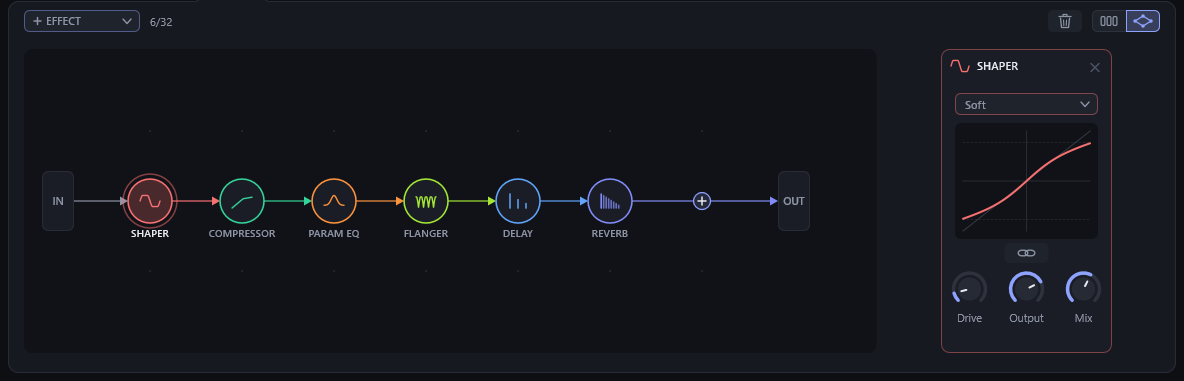
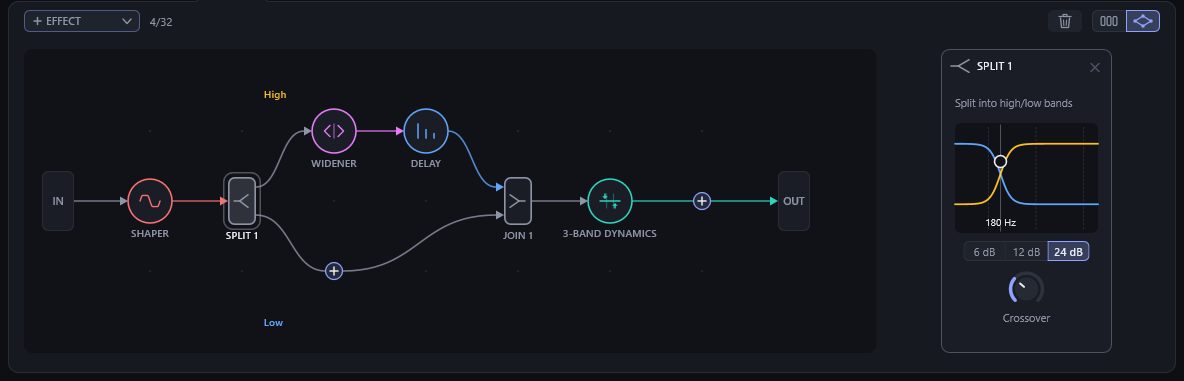
Add the BA Neon Pluck preset, the README's graph screenshot
A mono FM saw pluck through a resonant low-pass over a sine sub, a two-bar LFO
turning its FM and grit; its effects as a graph, split at 180 Hz with the high
band widened and echoed and the low band left tight, then a 3-band dynamics set
as OTT; Timbre, Filter, Grit and Space macros. The UI test renders it, and
release.ps1 copies its effects' panel over docs/fx-graph.png.

diff --git a/tools/uishot.cpp b/tools/uishot.cpp
@@ -1587,12 +1587,15 @@ void renderExample(const std::filesystem::path &dir, Renderer &renderer, const s
     click(view, kFxTab);
     view.mouseMove({600.0f, 328.0f}, {});
     shots = shots && renderer.save(view, dir / (prefix + "-fx.png"));
-    // Its effects' panel alone, as a chain and then as a graph (the README's, see release.ps1).
+    // Its effects' panel alone, as a chain and then as a graph, or as a graph only when it comes as one (the
+    // README's, see release.ps1).
     const Rect panel{detail::kFxPanel.x - 8.0f, detail::kFxPanel.y - 1.0f, detail::kFxPanel.w + 16.0f,
                      detail::kFxPanel.h + 9.0f}; // not the tabs above it
-    shots = shots && renderer.save(view, dir / (prefix + "-fx-chain-panel.png"), &panel);
-    const Rect graphSwitch = detail::fxModeButton(1);
-    click(view, {graphSwitch.x + graphSwitch.w * 0.5f, graphSwitch.y + graphSwitch.h * 0.5f});
+    if (model.value(paramIndex(GlobalParam::FxGraph)) < 0.5) {
+        shots = shots && renderer.save(view, dir / (prefix + "-fx-chain-panel.png"), &panel);
+        const Rect graphSwitch = detail::fxModeButton(1);
+        click(view, {graphSwitch.x + graphSwitch.w * 0.5f, graphSwitch.y + graphSwitch.h * 0.5f});
+    }
     view.mouseMove({600.0f, 600.0f}, {});
     shots = shots && model.value(paramIndex(GlobalParam::FxGraph)) == 1.0 &&
             renderer.save(view, dir / (prefix + "-fx-graph-panel.png"), &panel);
@@ -6230,6 +6233,7 @@ void run(const std::filesystem::path &dir, float scale) {
     click(view, kSourcesToggle);
     runMore(dir, renderer);
     renderExample(dir, renderer, "PD Crystal Motion", "24-example", 6);
+    renderExample(dir, renderer, "BA Neon Pluck", "24b-split-example", 4); // its effects as a graph, split low/high
     renderExample(dir, renderer, "BA Reese Bass", "25-reese", 4);
     renderExample(dir, renderer, "LD Folded Lead", "31-folded-lead", 2);
     renderExample(dir, renderer, "BA Fuzz Bass", "32-fuzz-bass", 2);

diff --git a/docs/features.md b/docs/features.md
@@ -1143,9 +1143,12 @@ the modulation panel or the keyboard strip makes it shorter (the plugin asks the
   (three pairs at inharmonic ratios, one of them modulated by a fixed 137 Hz operator, so each key grinds
   differently, the modulators dying before their carriers and velocity driving every index); LD Feedback Lead (a
   mono lead whose oscillator is a self-modulating operator, the mod wheel opening its feedback and index from flute
-  to buzzing reed, a mod envelope's bite on each note and a vibrato that a second envelope, as its aux, fades in); and
+  to buzzing reed, a mod envelope's bite on each note and a vibrato that a second envelope, as its aux, fades in);
   PD Six-Op Cascade (all six operators in one chain, F down to A, four slow LFOs breathing its links at rates that
-  never line up, and an Index macro deepening them all). A folder made
+  never line up, and an Index macro deepening them all); and BA Neon Pluck (a mono saw plucked by FM through a
+  resonant low-pass over a sine sub, a two-bar LFO turning its FM and grit, its effects as a graph: a split at
+  180 Hz whose high band is widened and echoed while the low band stays tight, then a 3-band dynamics set as OTT;
+  its Timbre, Filter, Grit and Space macros). A folder made
   before an example came gets it the next time the library is used; `%APPDATA%\FMVibe\settings.txt` counts the examples
   given, so deleted ones stay gone. The plugin carries the factory presets built in and writes them out as they are:
   they hold only the params that differ from Init, so their files are small, and load like any other.

diff --git a/AGENTS.md b/AGENTS.md
@@ -528,9 +528,9 @@ browser demo on Linux, with the Emscripten version `build-web.ps1` pins, and pub
 
 `.\release.ps1` does all of it: it needs `main`, a clean working tree, `main` level with origin and a free tag. It
 raises the minor version in `project()` at the top of `CMakeLists.txt` (`-Version 1.0` picks another), runs
-`build.ps1 -Validate` (every test and both validators), and copies the PD Crystal Motion snapshots the tests render
-over the README's: its routing view over `docs/editor.png`, and its effects' panel as a chain and as a graph over
-`docs/fx-chain.png` and `docs/fx-graph.png`. It then lists what it would do and asks; only an answer of `yes` commits
+`build.ps1 -Validate` (every test and both validators), and copies the snapshots the tests render over the README's:
+PD Crystal Motion's routing view over `docs/editor.png` and its effects' panel as a chain over `docs/fx-chain.png`, and
+BA Neon Pluck's effects' panel, a graph split low and high, over `docs/fx-graph.png`. It then lists what it would do and asks; only an answer of `yes` commits
 `CMakeLists.txt` and the three screenshots as "Version X.Y" on `main`, tags it `vX.Y` and pushes `main` and the tag.
 Any other answer puts those files back as they were.
 
